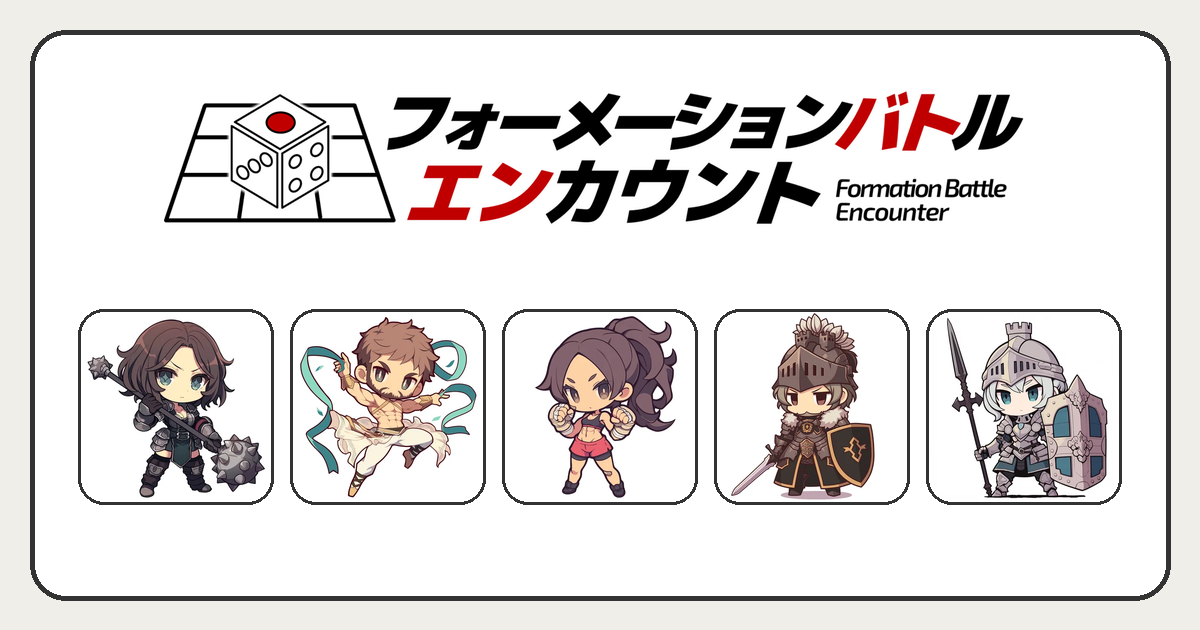
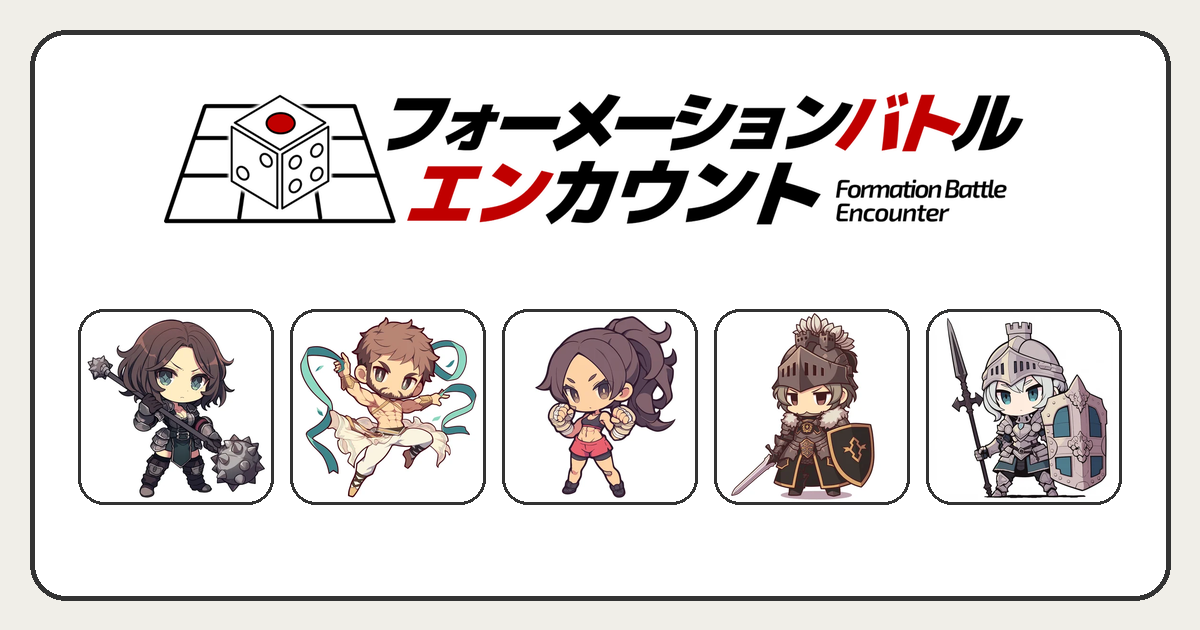
変更：ロゴを新しいものに差し替え（タイトル・about・OGP画像）

diff --git a/index.html b/index.html
@@ -14,7 +14,7 @@
   <meta property="og:title" content="フォーメーションバトル・エンカウント">
   <meta property="og:description" content="3×3の盤面にキャラクターを配置し、ダイスの出目で行動するブラウザ対戦ゲーム。オンライン対戦・ステージ攻略・エンカウント・ドラフトで遊べます。">
   <meta property="og:url" content="https://akisame4.github.io/formation-battle-encounter/">
-  <meta property="og:image" content="https://akisame4.github.io/formation-battle-encounter/assets/ogp.png">
+  <meta property="og:image" content="https://akisame4.github.io/formation-battle-encounter/assets/ogp.png?v=2">
   <meta property="og:image:width" content="1200">
   <meta property="og:image:height" content="630">
   <meta property="og:locale" content="ja_JP">
@@ -25,7 +25,7 @@
 <body>
   <div id="title-screen" class="title-screen">
     <div class="title-box">
-      <img src="assets/logo.png" alt="フォーメーションバトルエンカウント" style="max-width:100%; width:480px; margin-bottom:16px;">
+      <img src="assets/logo.png?v=2" alt="フォーメーションバトルエンカウント" style="max-width:100%; width:480px; margin-bottom:16px;">
 
       <div class="title-description">
         3×3の盤面にキャラクターを配置し、ダイスの出目で行動する対戦ゲームです。<br>

diff --git a/about.html b/about.html
@@ -83,7 +83,7 @@
 </head>
 <body>
   <div class="about-box">
-    <img class="logo" src="assets/logo.png" alt="フォーメーションバトルエンカウント">
+    <img class="logo" src="assets/logo.png?v=2" alt="フォーメーションバトルエンカウント">
     <h1>クレジット・利用規約</h1>
 
     <h2>クレジット</h2>
